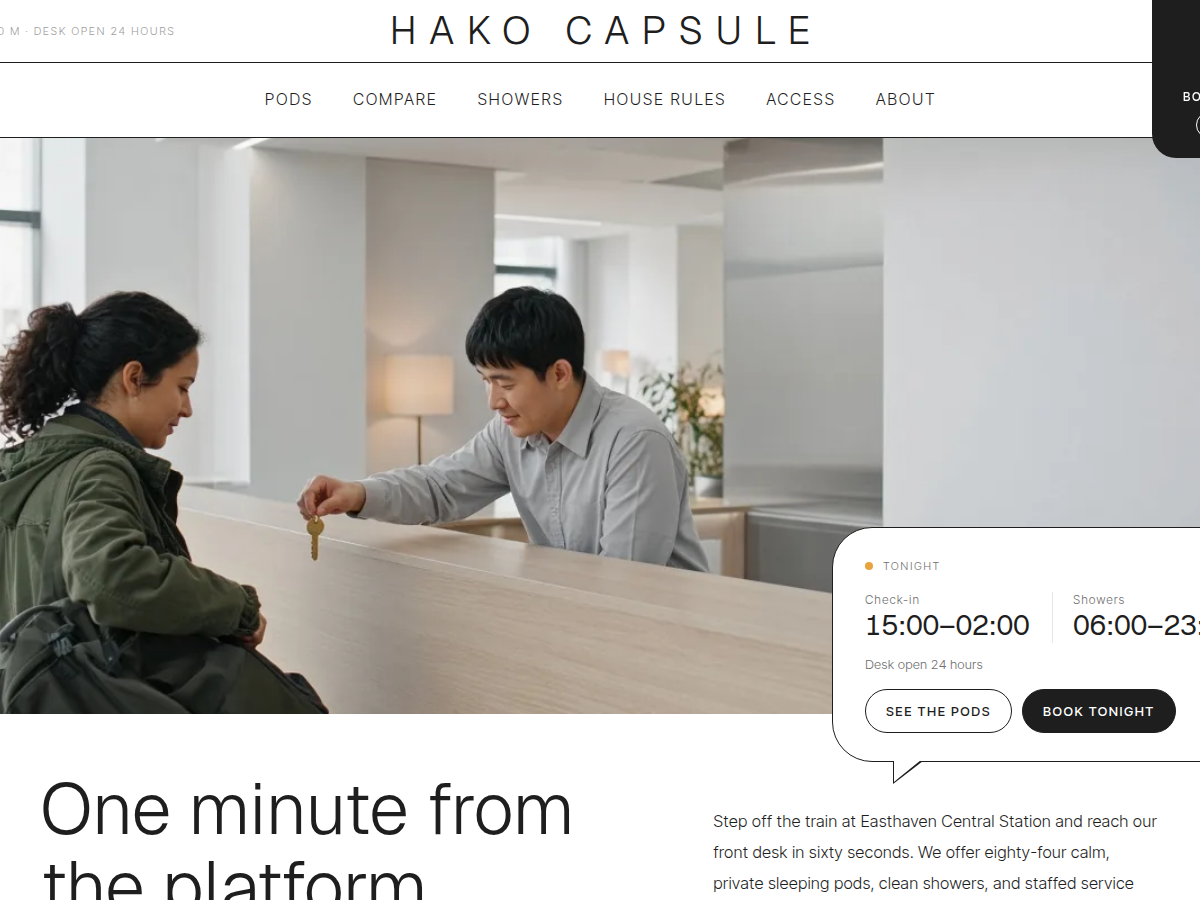
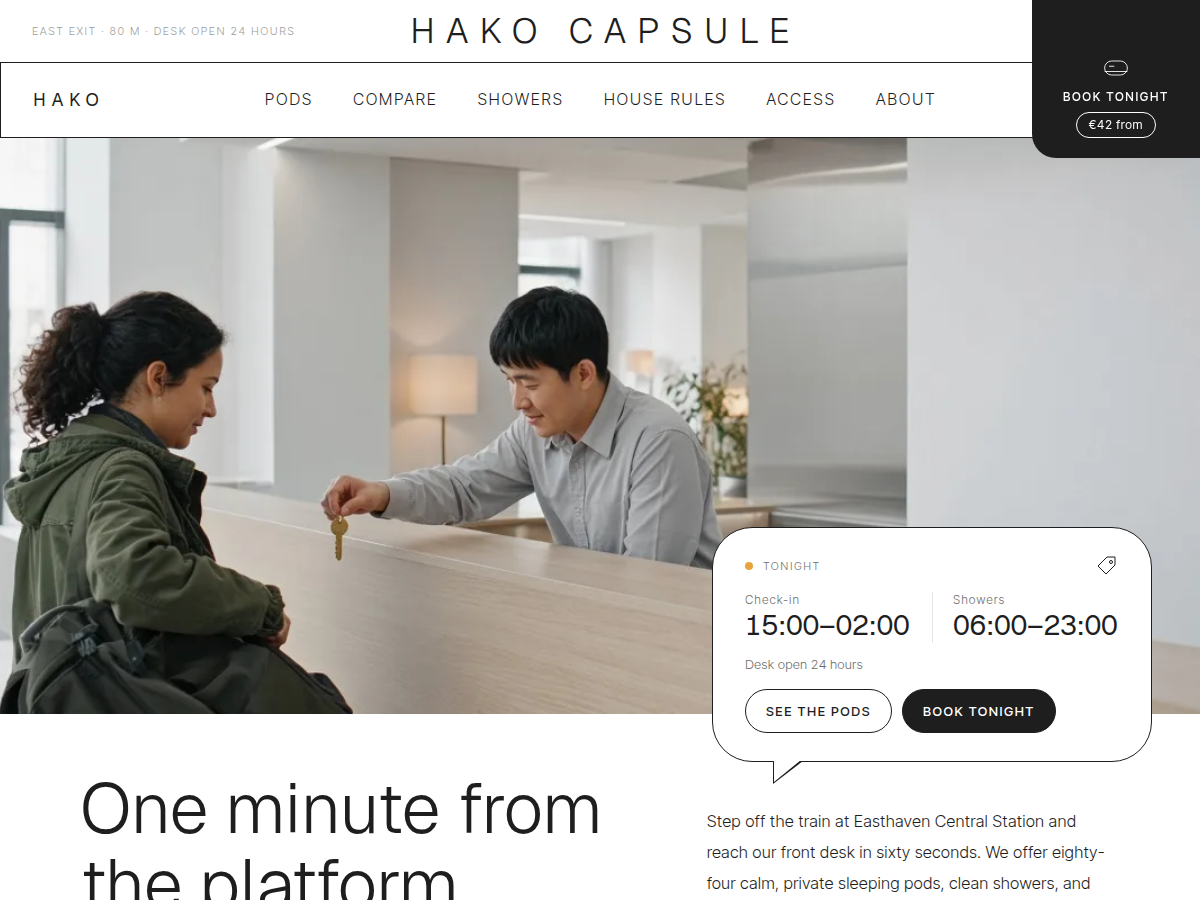
hako-capsule: stage 2 fix (mobile wordmark, spacing, P08 regen, P12-P14, README, screenshot)

diff --git a/themes/hako-capsule/style.css b/themes/hako-capsule/style.css
@@ -71,12 +71,6 @@ img { max-width: 100%; height: auto; }
 .hk-bar { position: sticky; top: 0; z-index: 60; box-sizing: border-box; height: 76px; display: flex; align-items: center; justify-content: center; padding: 0 168px; background: var(--hk-base); border: var(--hk-line); border-right: 0; }
 .hk-mark { position: absolute; left: 32px; top: 50%; transform: translateY(-50%); margin: 0; font-family: var(--hk-display); font-weight: 400; font-size: 1.125rem; letter-spacing: .32em; line-height: 1; }
 .hk-mark a { text-decoration: none; color: var(--hk-ink); }
-@supports (animation-timeline: scroll()) {
-	.hk-mark { opacity: 0; animation: hk-mark-in linear both; animation-timeline: scroll(root); animation-range: 0 120px; }
-}
-@keyframes hk-mark-in { from { opacity: 0; } to { opacity: 1; } }
-html.sp-no-motion .hk-mark, .editor-styles-wrapper .hk-mark { animation: none; opacity: 1; }
-@media (prefers-reduced-motion: reduce) { .hk-mark { animation: none; opacity: 1; } }
 
 .hk-nav { font-family: var(--hk-body); font-weight: 300; font-size: 1rem; letter-spacing: .1em; text-transform: uppercase; }
 .hk-nav .wp-block-navigation__container { gap: 40px; flex-wrap: nowrap; }
@@ -109,8 +103,8 @@ html.sp-no-motion .hk-mark, .editor-styles-wrapper .hk-mark { animation: none; o
 	.hk-nav { margin-left: auto; }
 }
 @media (max-width: 781px) {
-	.hk-band { height: 48px; }
-	.hk-wordmark { letter-spacing: .24em; padding-left: .24em; }
+	.hk-band { height: 48px; padding-right: 96px; box-sizing: border-box; }
+	.hk-wordmark { font-size: 1.125rem; letter-spacing: .18em; padding-left: .18em; }
 	.hk-bar { height: 56px; }
 	.hk-slab { top: -49px; width: 88px; height: 116px; padding: 0 8px 12px; border-radius: 0 0 0 16px; }
 	.hk-slab__label { font-size: .625rem; letter-spacing: .1em; }
@@ -222,7 +216,7 @@ html.sp-no-motion .hk-tag, .editor-styles-wrapper .hk-tag { animation: none; }
 }
 
 /* ---------- comparison table ---------- */
-.hk-sec--compare .hk-in { padding-top: 72px; padding-bottom: 88px; }
+.hk-sec--compare .hk-in { padding-top: 72px; padding-bottom: 48px; }
 figure.wp-block-table.hk-table { margin: 0; overflow: visible; }
 .hk-table table { width: 100%; table-layout: fixed; border-collapse: collapse; border: var(--hk-line); font-size: var(--wp--preset--font-size--cell); line-height: 1.6; }
 .hk-table th { background: var(--hk-pale); font-weight: 500; font-size: .75rem; letter-spacing: .12em; text-transform: uppercase; text-align: left; padding: 16px 14px; border: 0; border-bottom: var(--hk-line); }

diff --git a/themes/hako-capsule/inc/i18n/en.php b/themes/hako-capsule/inc/i18n/en.php
@@ -8,7 +8,7 @@ return array(
 	'alt_p05' => 'A single private cabin showing a narrow bed, small desk, and open door.',
 	'alt_p06' => 'A private tiled shower room with a glass door and rolled white towel.',
 	'alt_p07' => 'A traveller pulling a suitcase along a station walkway toward a white building.',
-	'alt_p08' => 'Two tiers of modern sleeping capsules receding along a clean hotel hallway.',
+	'alt_p08' => 'A traveller\'s hand drawing back a pale linen curtain on a made-up capsule bed with folded towels.',
 	'alt_p09' => 'A night clerk writing at a desk beside rows of brass keys.',
 	'alt_p10' => 'A row of white washroom basins and mirrors under soft lighting.',
 	'alt_p11' => 'A hand turning a metal key inside a grey locker beside a backpack.',

diff --git a/themes/hako-capsule/README.md b/themes/hako-capsule/README.md
@@ -1,5 +1,12 @@
 # Hako Capsule
 
-A WordPress block theme for a station-front capsule hotel. White page ruled in 1px ink lines; wordmark band over a framed sticky nav; a hanging ink booking slab; stage photograph with a Tonight card; pod-bay wall; comparison table; notched numeral cards; ruled house rules. See brand.md and brand/design-spec.md.
+A WordPress block theme for a station-front capsule hotel that sells a clean pod and a hot shower.
 
-Fonts: Geist and Inter Tight (OFL-1.1), in assets/fonts. Scroll effects: assets/sp-scroll.css and assets/sp-scroll.js (reveal, wipe, stagger, parallax). Optional forms: inc/shippress-forms.php (newsletter and contact slots).
+- **Look:** white page ruled in 1px ink lines, a thin tracked wordmark over a framed sticky nav, a hanging ink "Book tonight" slab, a full-bleed stage photograph with a speech-bubble Tonight card.
+- **Home:** narrow three-paragraph column, five-cell pod-bay wall, comparison table (pods, cabin, day use), parallax shower band, notched numeral cards, ruled house rules, night-desk stories, newsletter slot and an ink booking band.
+- **Fonts:** Geist (headings) and Inter Tight (reading), both OFL-1.1, bundled in `assets/fonts`.
+- **Motion:** `assets/sp-scroll.css` and `assets/sp-scroll.js` (reveal, wipe, stagger, parallax); all of it respects `prefers-reduced-motion`.
+- **Forms:** optional newsletter and contact slots in `inc/shippress-forms.php`; without a form plugin they fall back to a mailto action.
+- **Photography:** 14 generated documentary photographs in `assets/images` (credits in `readme.txt`).
+
+See `brand.md` for the fictional brand, copy and page plan.
